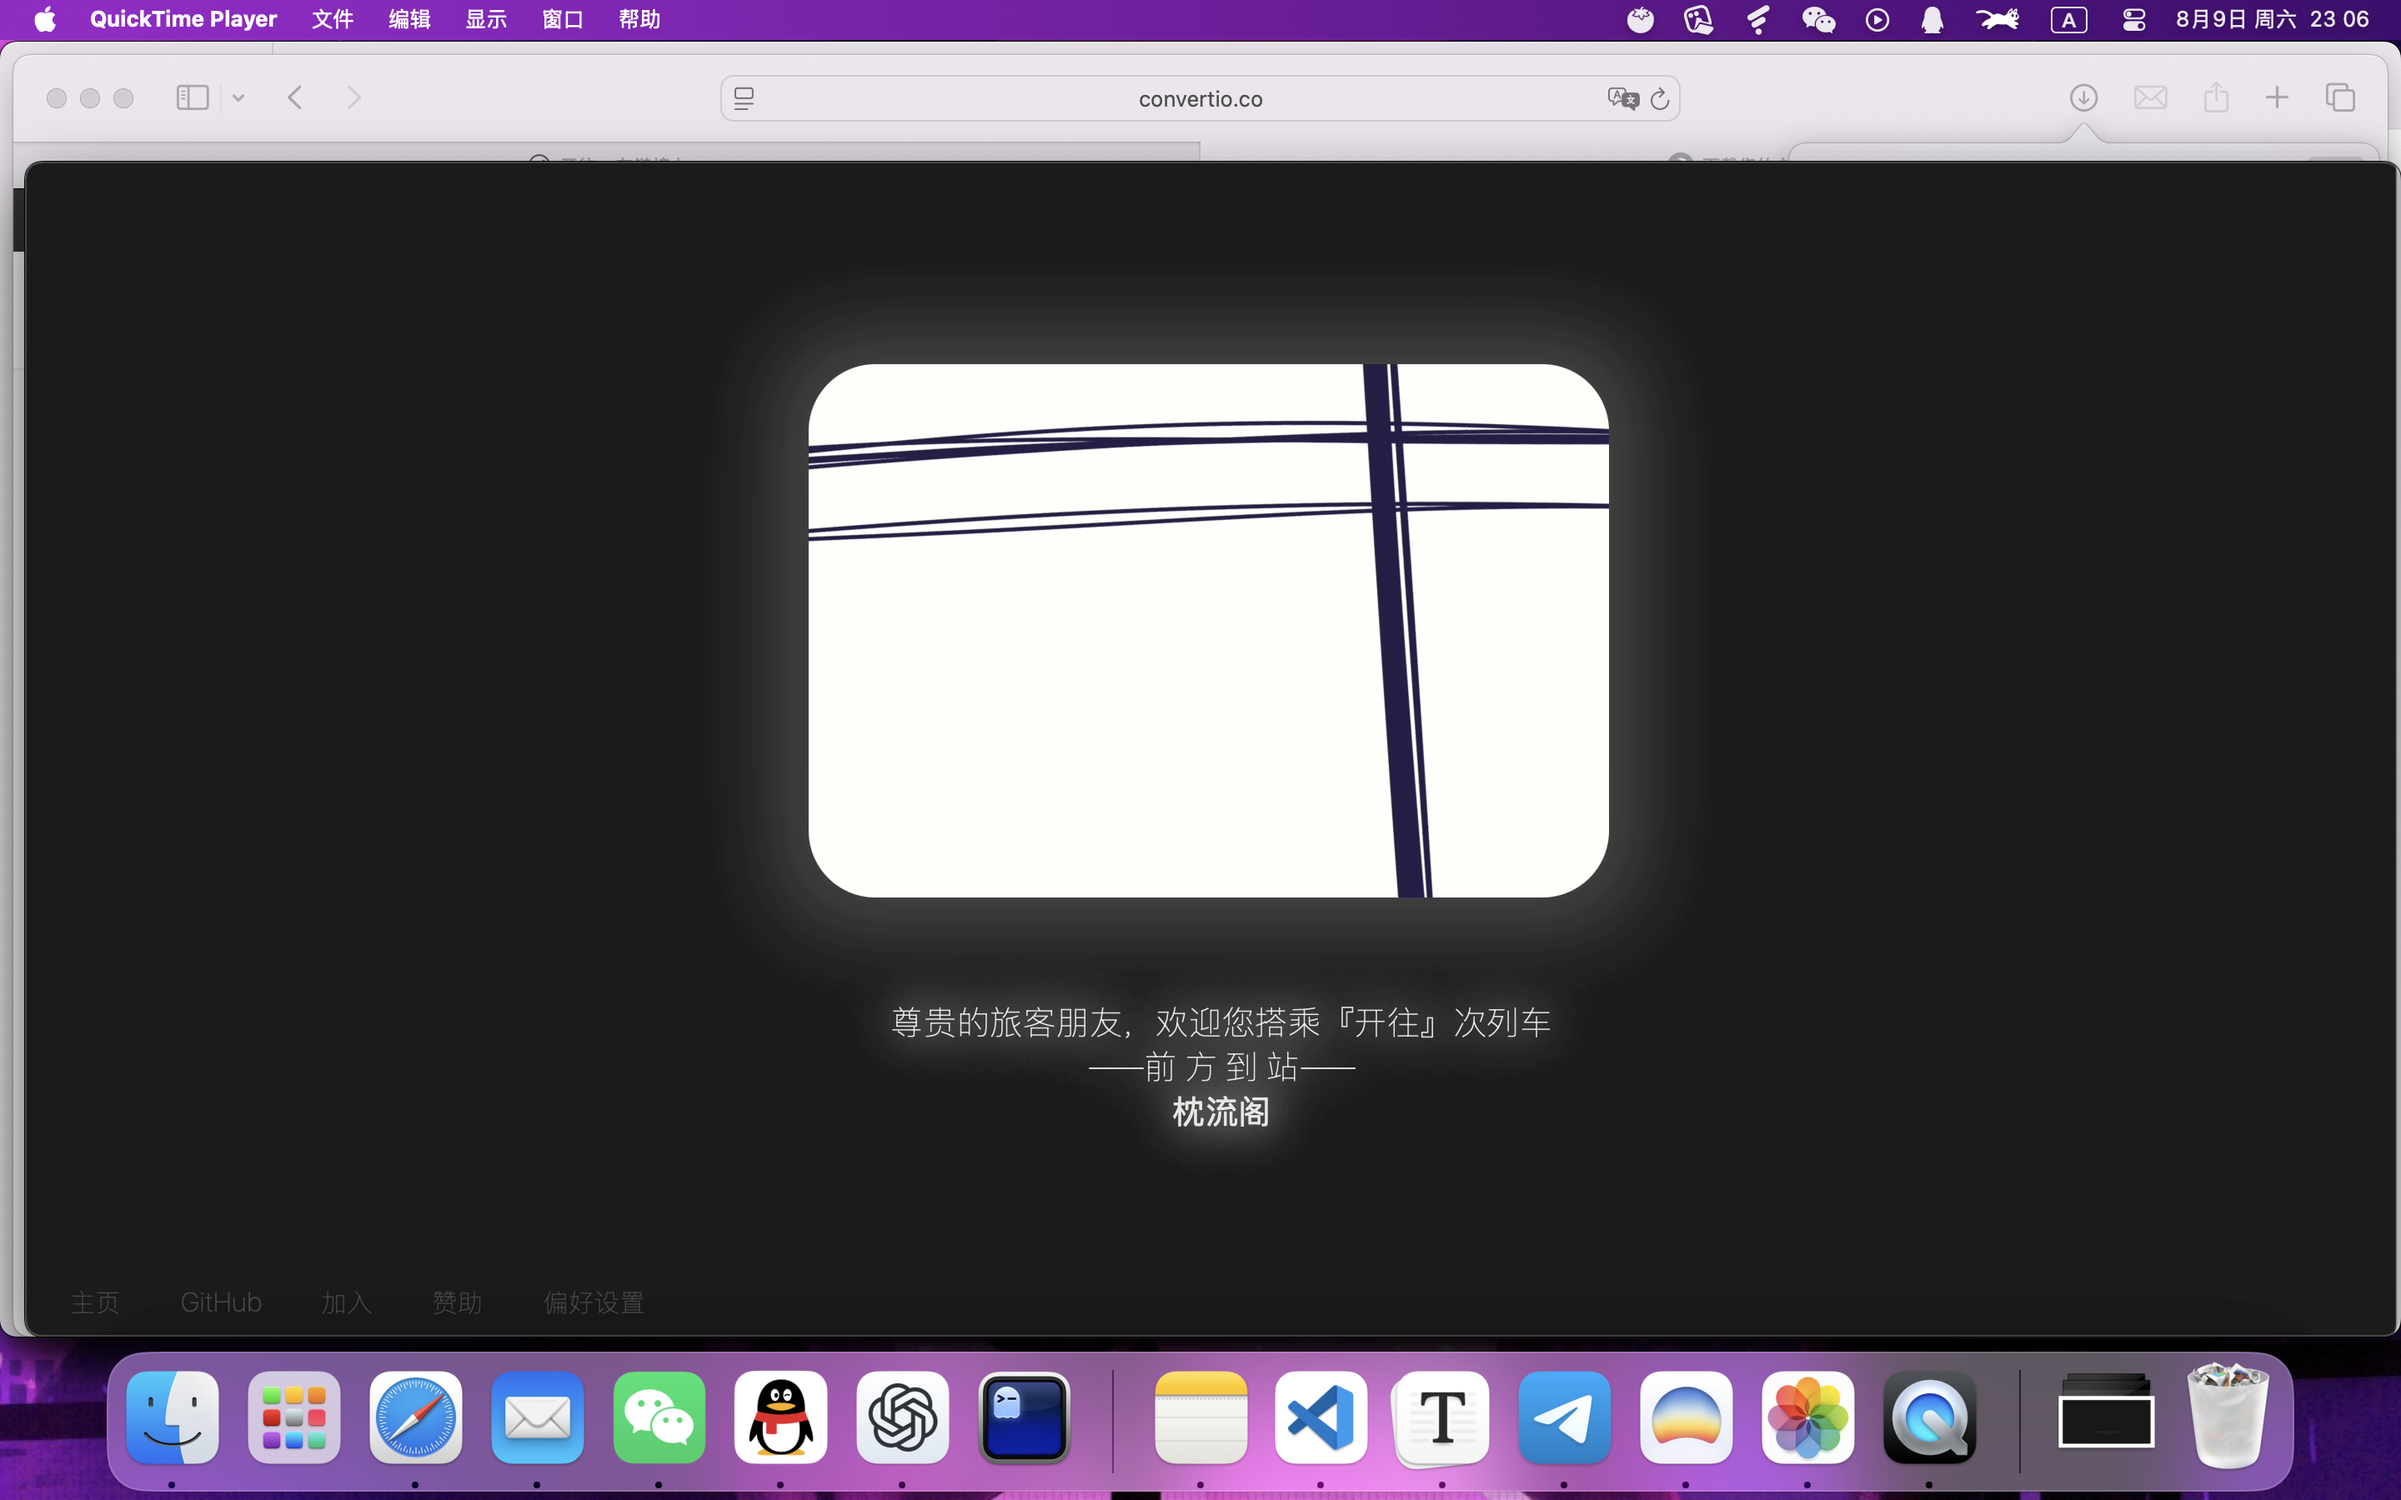
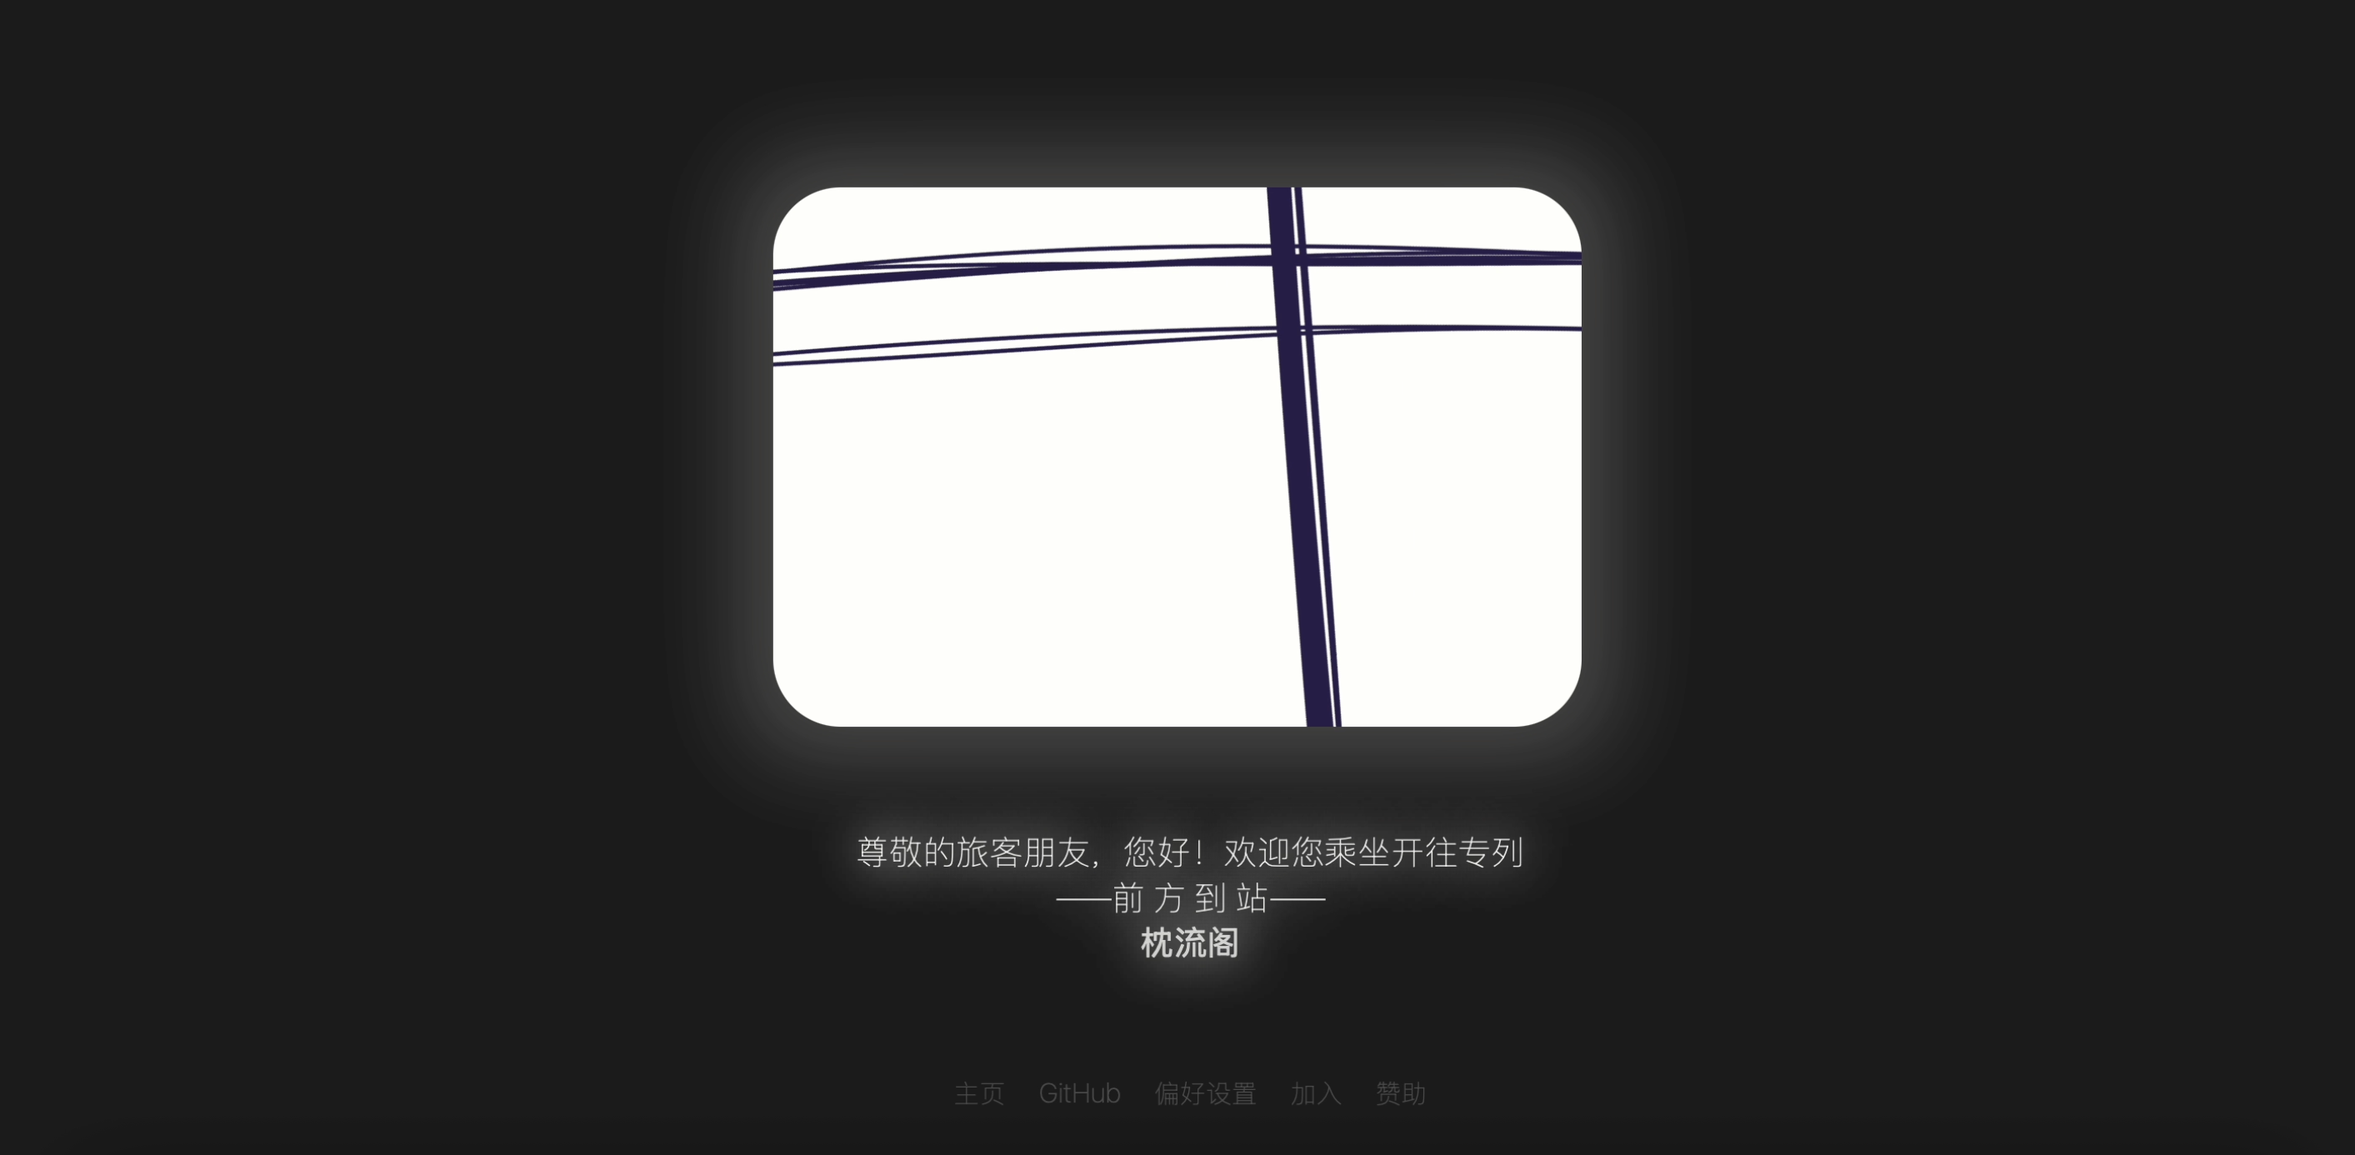
修复行高问题，用margin替换line-height，解决字体重叠问题 (#3270)

Changed region(s): [[0.0, 0.0, 1.0, 1.0]]

diff --git a/public/train.html b/public/train.html
@@ -64,7 +64,6 @@
         }
         #text{
             text-align: center;
-            line-height: 0.3em;
             position: absolute;
             top: calc(var(--top) + var(--height) + 50px);
             width: 100vw;
@@ -72,6 +71,7 @@
         }
         #broadcast{
             animation: text 5s ease-in-out forwards;
+
         }
         #footer{
             position: absolute;
@@ -102,6 +102,10 @@
         #sitename{
             font-weight: bolder;
 
+        }
+
+        p{
+            margin: 0.15em;
         }
         @keyframes curtain {
             0%{
